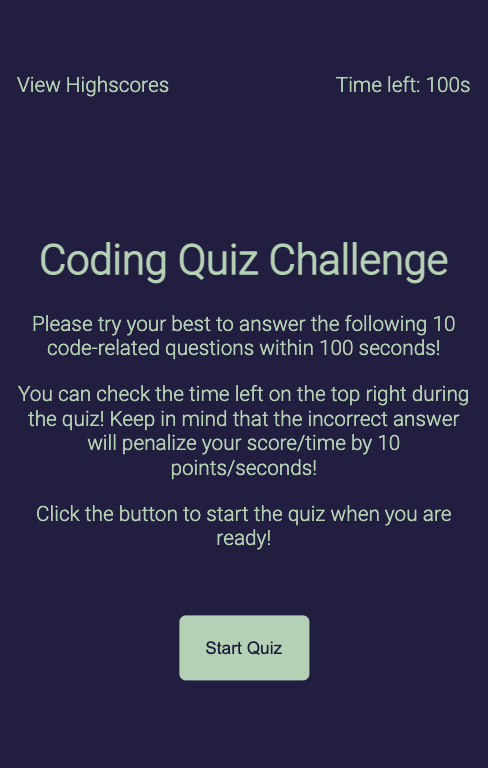
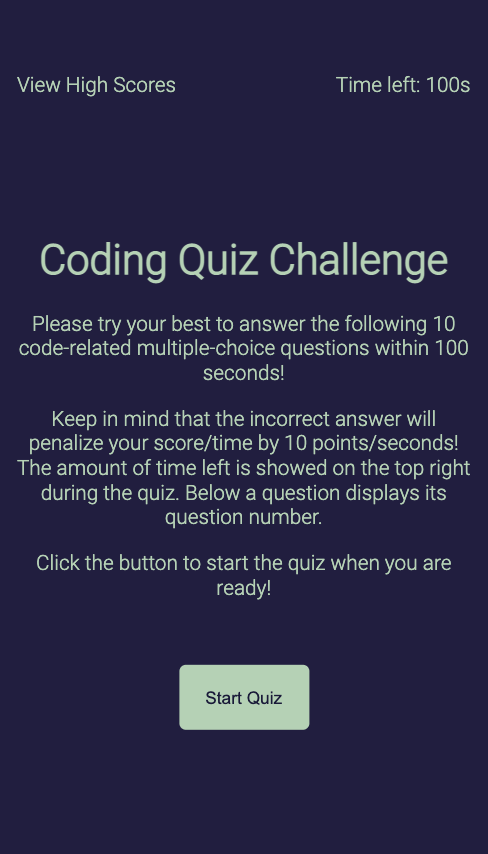
correct typo and update images in README

diff --git a/assets/js/script.js b/assets/js/script.js
@@ -13,7 +13,7 @@ var validInitial = "ABCDEFGHIJKLMNOPQRSTUVWXYZ";
 var questions;
 var currentQuestionIndex;
 
-// load homepage with view highscore button, Timeleft info on the top
+// load homepage with View High Score button, Timeleft info on the top
 // page title, quiz instruction and start quiz button in main content area
 function loadHomepage() {
     var title = document.createElement("h1");
@@ -27,7 +27,7 @@ function loadHomepage() {
     secondBlock.innerHTML = "";
     // append high-score button and time left info to the top
     highScore.setAttribute("id", "high-score")
-    highScore.textContent = "View Highscores";
+    highScore.textContent = "View High Scores";
     timeLeftEl.textContent = "Time left: " + timeTotal + "s";
     topBar.appendChild(highScore);
     topBar.appendChild(timeLeftEl);
@@ -68,26 +68,26 @@ function selectPosition(event) {
             }
         }
         loadNextQuestion();
-    // load highscore page when 'view highscore' button is clicked
+    // load high score page when 'View High Scores' button is clicked
     } else if (element.matches("#high-score") && !duringQuiz) {
         loadHighScores();
-    // record the score and load updated highscore page when submit form button is clicked
+    // record the score and load updated high score page when submit form button is clicked
     } else if (element.matches("#submit-score")) {
         // stop default function to deal with input info
         event.preventDefault();
-        // add current score to record and load highscore page
+        // add current score to record and load high score page
         if (createNewScore() != null) {
             updateScoreRecord(newScore);
             currentQuestionIndex = 0;
             firstBlock.innerHTML = "";
             loadHighScores();
         }
-    // go back to homepage when 'go back' button on view highscore page is clicked
+    // go back to homepage when 'go back' button on view high score page is clicked
     } else if (element.matches("#go-back")) {
         loadHomepage();
     } 
-    // remove the item scores in localStorage and reload highscore page
-    else if (element.matches("#clear-highscore")) {
+    // remove the item scores in localStorage and reload high score page
+    else if (element.matches("#clear-high-score")) {
         localStorage.removeItem("scores");
         loadHighScores();
     }
@@ -187,9 +187,9 @@ function loadHighScores() {
     var scores = JSON.parse(localStorage.getItem("scores"));
     topBar.innerHTML = 
         '<button id="go-back">Go Back</button>' +
-        '<button id="clear-highscore">Clear Highscores</button>';
+        '<button id="clear-high-score">Clear High Scores</button>';
     firstBlock.innerHTML = 
-        '<div class="highscore-box">' +
+        '<div class="high-score-box">' +
             '<h1 class="text-center">HIGH SCORES &#x1F3C6</h1>' +
             '<ol id="high-score-list"></ol>' +
         '</div>';

diff --git a/assets/css/style.css b/assets/css/style.css
@@ -95,7 +95,7 @@ input {
     width: 70px;
 }
 
-.highscore-box {
+.high-score-box {
     width: 300px;
     margin-left: auto;
     margin-right: auto;
@@ -126,7 +126,7 @@ li:nth-of-type(odd) {
         padding: 0px 5px;
     }
 
-    .top-bar, main, .highscore-box {
+    .top-bar, main, .high-score-box {
         width: 100%;
     }
     

diff --git a/README.md b/README.md
@@ -17,14 +17,15 @@ git clone https://github.com/qtian13/code-quiz.git
     * A series of multiple-choice questions are rendered one by one. 
     * The background color of the choice would change while the mouse hover over it which helps user choose the one they want.
     * User can check the time left on the top right corner.
-    * Users can also check the serial number of current question at the bottom of the page. 
+    * User can also check the serial number of current question at the bottom of the page. 
     ![duringquiz](assets/images/duringquiz.png)
     * When a choice is clicked, the next question renders right away
-    * The result of the previous question is displayed below the question card and disappear after 1.5 second or options of current questions is clicked which comes early.
+    * The result of the previous question is displayed below the question card and disappear after 1.5 seconds or choice of current question is clicked, whichever comes earlier.
     ![displayresult](assets/images/displayresult.png)
 3. The quiz result page is loaded when time is up or when all the questions are done. Users can enter their initials and click `submit` to record their score. The initials and score would be added to quiz results stored in `Local Storage`. The high score page would load after the form is submitted.
 ![quizends](assets/images/quizends.png)
-4. When the high score page is loaded, user can view the quiz results ranked in descending order. There are two buttons on this page: One to go back to the homepage and the other one is to clear the scores from UI and in `Local Storage`
+![quizends](assets/images/quizends1.png)
+4. When the high score page is loaded, user can view the quiz results ranked in descending order. There are two buttons on this page: Click button `Go Back` to load homepage and button `Clear High Score` to clear scores from UI and in `Local Storage`.
 ![highscore](assets/images/highscore.png)
 5. The page layout is screen size responsive.
 5. Question data are stored in JSON file.
